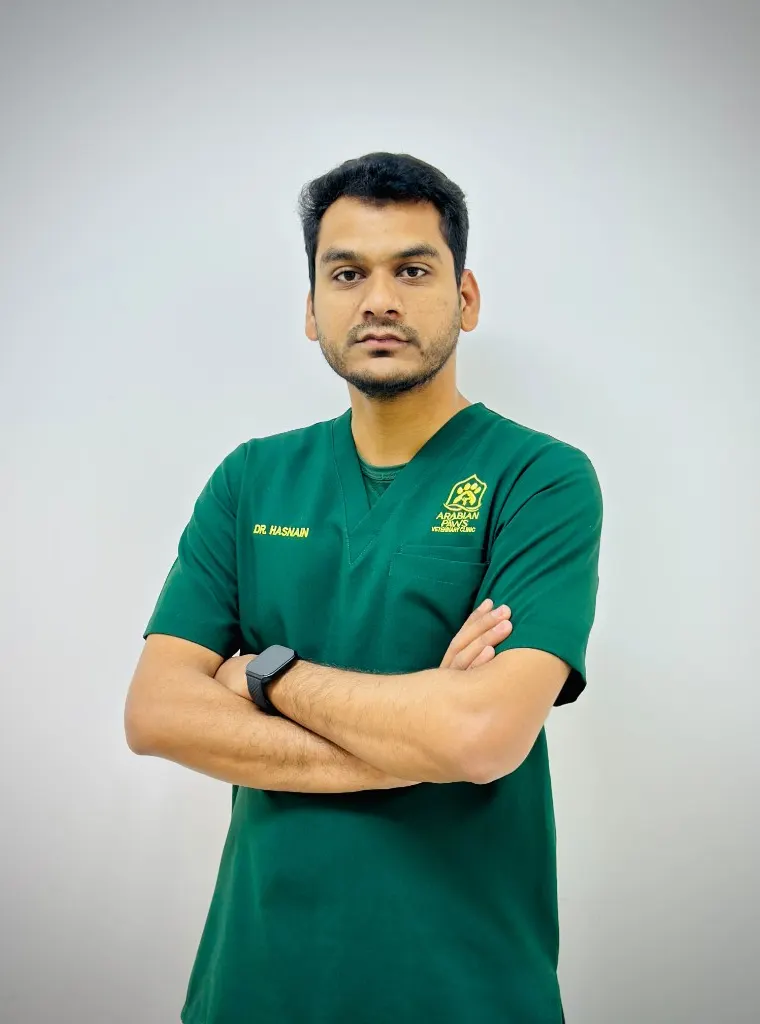
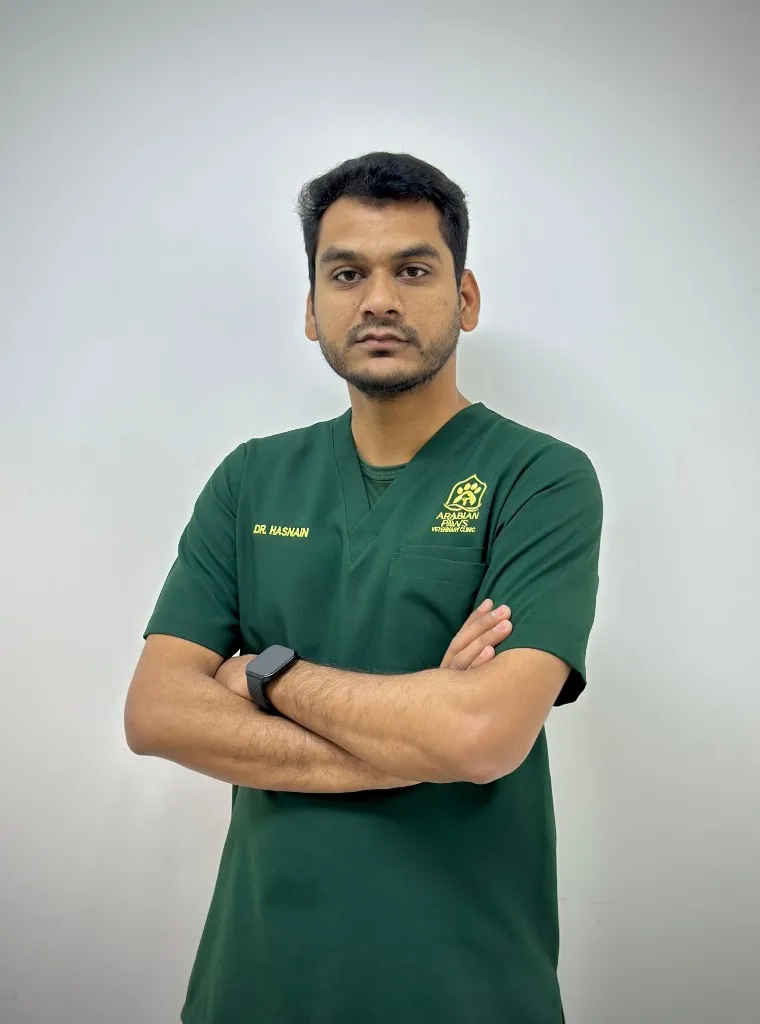
changes
team

Changed region(s): [[0.1513, 0.1562, 0.8171, 1.0]]

diff --git a/src/components/vets.tsx b/src/components/vets.tsx
@@ -4,6 +4,7 @@ const vets = [
   {
     name: "Dr Hafiz Mudasser",
     role: "Medical Director, Veterinary Surgeon",
+    credential: "MOCCAE Licensed Veterinarian",
     experience: "12 Years Of Experience",
     image: "/images/vet-mudasser.webp",
   },
@@ -16,14 +17,16 @@ const vets = [
   {
     name: "Dr Imran",
     role: "Veterinary Surgeon",
+    credential: "MOCCAE Licensed Veterinarian",
     experience: "7 Years Of Experience",
-    image: "/images/vet-imran.webp",
+    image: "/images/vet-imran.webp?v=2",
   },
   {
     name: "Dr Hasnain",
     role: "Veterinary Doctor",
+    credential: "MOCCAE Licensed Veterinarian",
     experience: "5 Years Of Experience",
-    image: "/images/vet-hasnain.webp",
+    image: "/images/vet-hasnain.webp?v=2",
   },
   {
     name: "Usman Ali",
@@ -35,13 +38,13 @@ const vets = [
     name: "Krishna",
     role: "Nurse Assistant",
     experience: "2 Years Of Experience",
-    image: "/images/vet-krishna.webp",
+    image: "/images/vet-krishna.webp?v=2",
   },
   {
     name: "Josephine",
     role: "Groomer",
     experience: "5 Years Of Experience",
-    image: "/images/vet-josephine.webp",
+    image: "/images/vet-josephine.webp?v=2",
   },
 ];
 
@@ -76,6 +79,9 @@ export function Vets({ showCta = true, featured = false }: { showCta?: boolean; 
                 <div className="min-w-0 flex-1 rounded-2xl border border-[#d7d7d7] bg-white px-3 py-3 shadow-[0px_2px_4px_rgba(25,33,61,0.08)]">
                   <p className="text-[20px] font-medium leading-[26px] text-ink">{vet.name}</p>
                   <p className="text-[14px] leading-[20px] text-muted-2">{vet.role}</p>
+                  {"credential" in vet && vet.credential ? (
+                    <p className="mt-1 text-[12px] font-medium leading-[16px] text-olive">{vet.credential}</p>
+                  ) : null}
                   {vet.experience ? (
                     <p className="mt-1 text-[12px] font-medium leading-[16px] text-olive">
                       {vet.experience}
